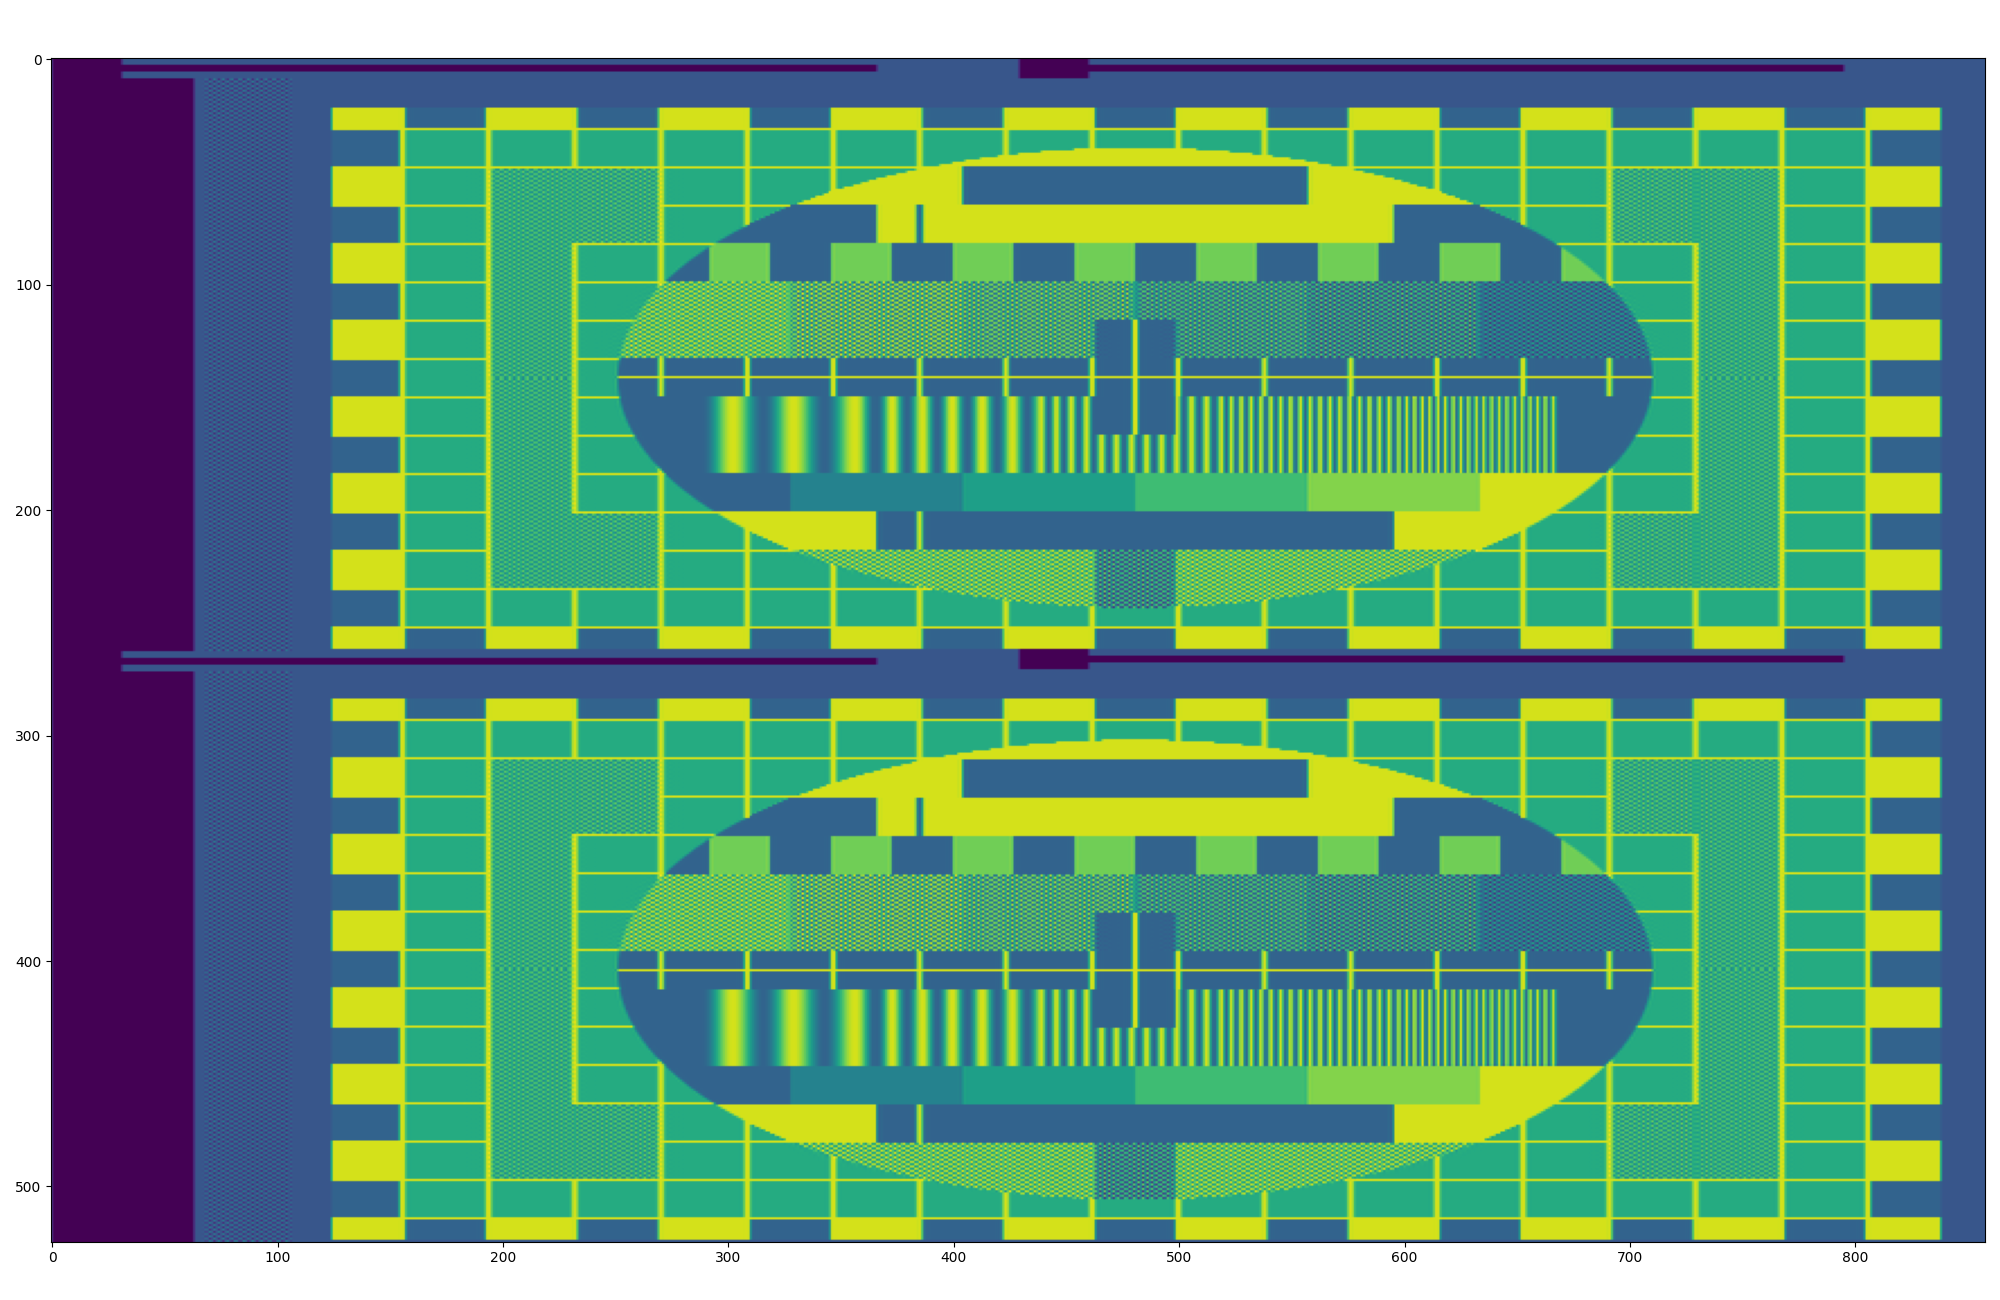
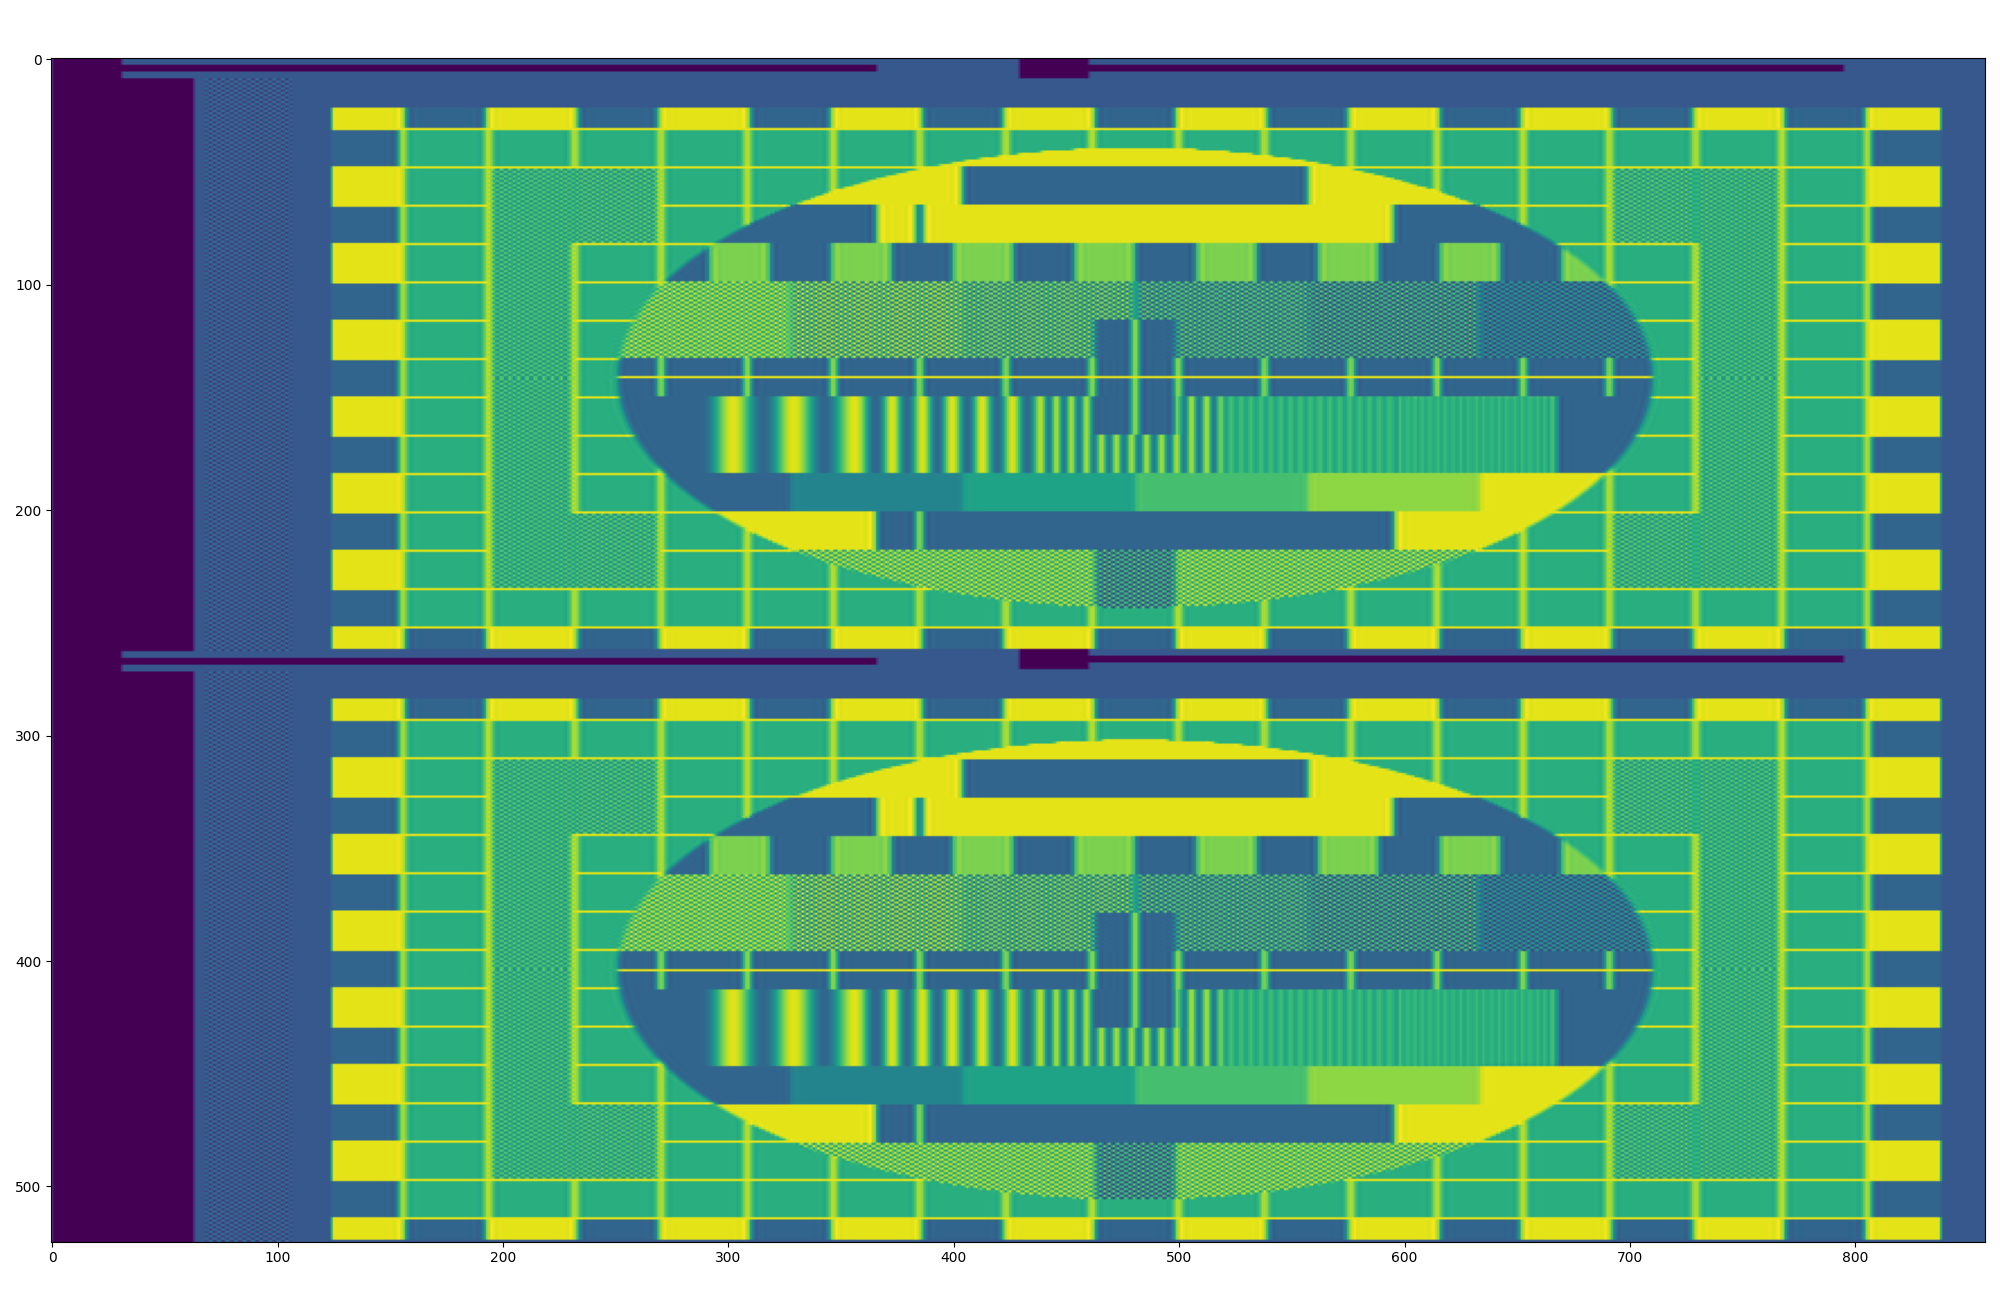
composite-filter: Adjust notch filter bandwidth
- Refactor example generation in makefile
- Add luma notch filtering example

diff --git a/composite-filter/composite_filter.py b/composite-filter/composite_filter.py
@@ -10,7 +10,7 @@ import matplotlib.pyplot as plt
 from PIL import Image
 from scipy.signal import resample_poly, resample
 
-VERSION = "0.4.0"
+VERSION = "0.4.1"
 
 def parse_argv(argv):
     parser=argparse.ArgumentParser(
@@ -673,8 +673,9 @@ def encode_image(
     if notch_luma:
         # simple notch
         # this is to prevent crosstalking to chroma
-        bw = 1.3e6
-        b_luma, a_luma = signal.iirnotch(r.F_SC, r.F_SC/bw, fs=r.FS)
+        bw = 2e6
+        q = r.F_SC/bw
+        b_luma, a_luma = signal.iirnotch(r.F_SC, q, fs=r.FS)
         nd_img[..., 0] = signal.filtfilt(b_luma, a_luma, nd_img[..., 0])
 
     # resample luma to make sure there is no content beyond 2xfsc

diff --git a/composite-filter/README.md b/composite-filter/README.md
@@ -22,12 +22,14 @@ Commons](https://commons.wikimedia.org/wiki/File:SMPTE_Color_Bars.svg).
 
 ![the SMPTE color bars test card after encoding: the whole raster](docs/SMPTEColorBars_raster.png)
 
-![the SMPTE color bars test card after decoding](output/SMPTEColorBars_transcode_01.png)
+![the SMPTE color bars test card after decoding](output/SMPTEColorBars_13.5MHz_16_bit_decode_01.png)
 
 ### Philips Circle test pattern
 
 taken from [Wikimedia
 Commons](https://commons.wikimedia.org/wiki/File:Pm5544_ntsc-2-.png).
+
+this example uses the luma notch filter option.
 
 ![the Philips circle test card before filtering](input/PhilipsCircle.png)
 
@@ -35,7 +37,7 @@ Commons](https://commons.wikimedia.org/wiki/File:Pm5544_ntsc-2-.png).
 
 ![the Philips circle test card after encoding: the whole raster](docs/PhilipsCircle_raster.png)
 
-![the Philips circle test card after decoding](output/PhilipsCircle_transcode_01.png)
+![the Philips circle test card after decoding](output/PhilipsCircle_13.5MHz_16_bit_decode_01.png)
 
 ### cobalt teal: wind and rain
 
@@ -49,7 +51,7 @@ this example uses the noise parameter of `12.0`.
 
 ![cobalt teal: wind and rain after encoding: the whole raster](docs/TheWindAndRainCBTL_raster.png)
 
-![cobalt teal: wind and rain after decoding](output/TheWindAndRainCBTL_transcode_01.png)
+![cobalt teal: wind and rain after decoding](output/TheWindAndRainCBTL_13.5MHz_16_bit_decode_01.png)
 
 ## requirements and libraries
 
